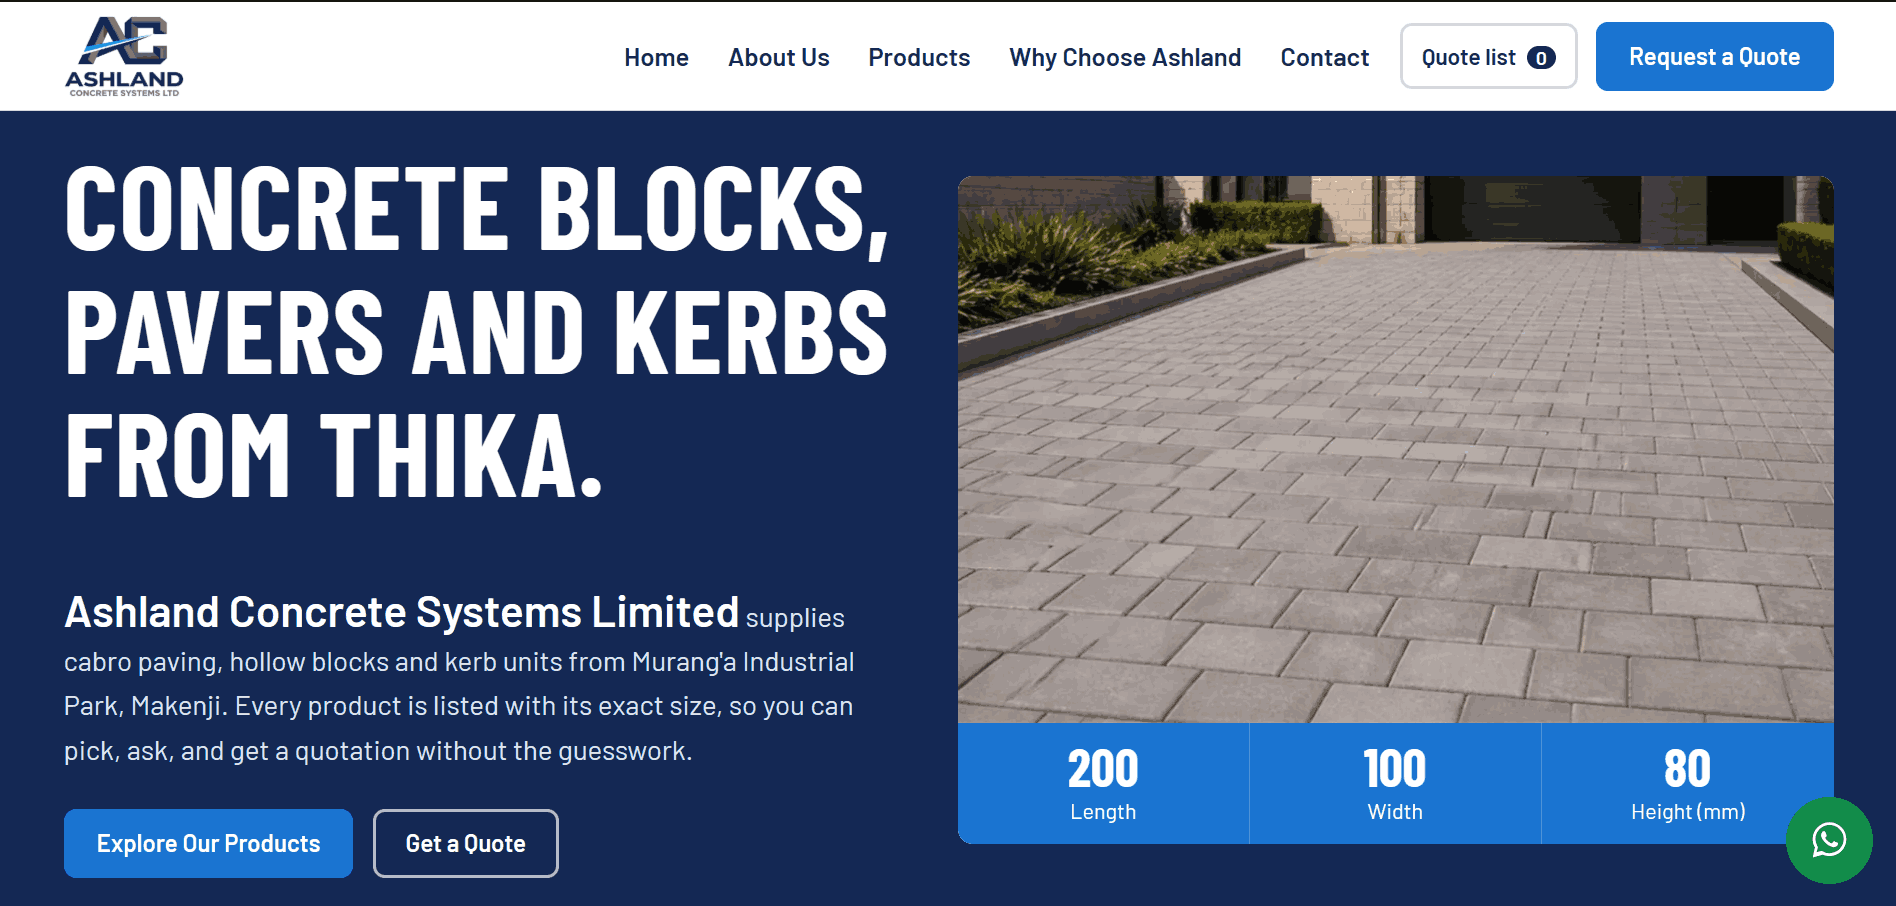
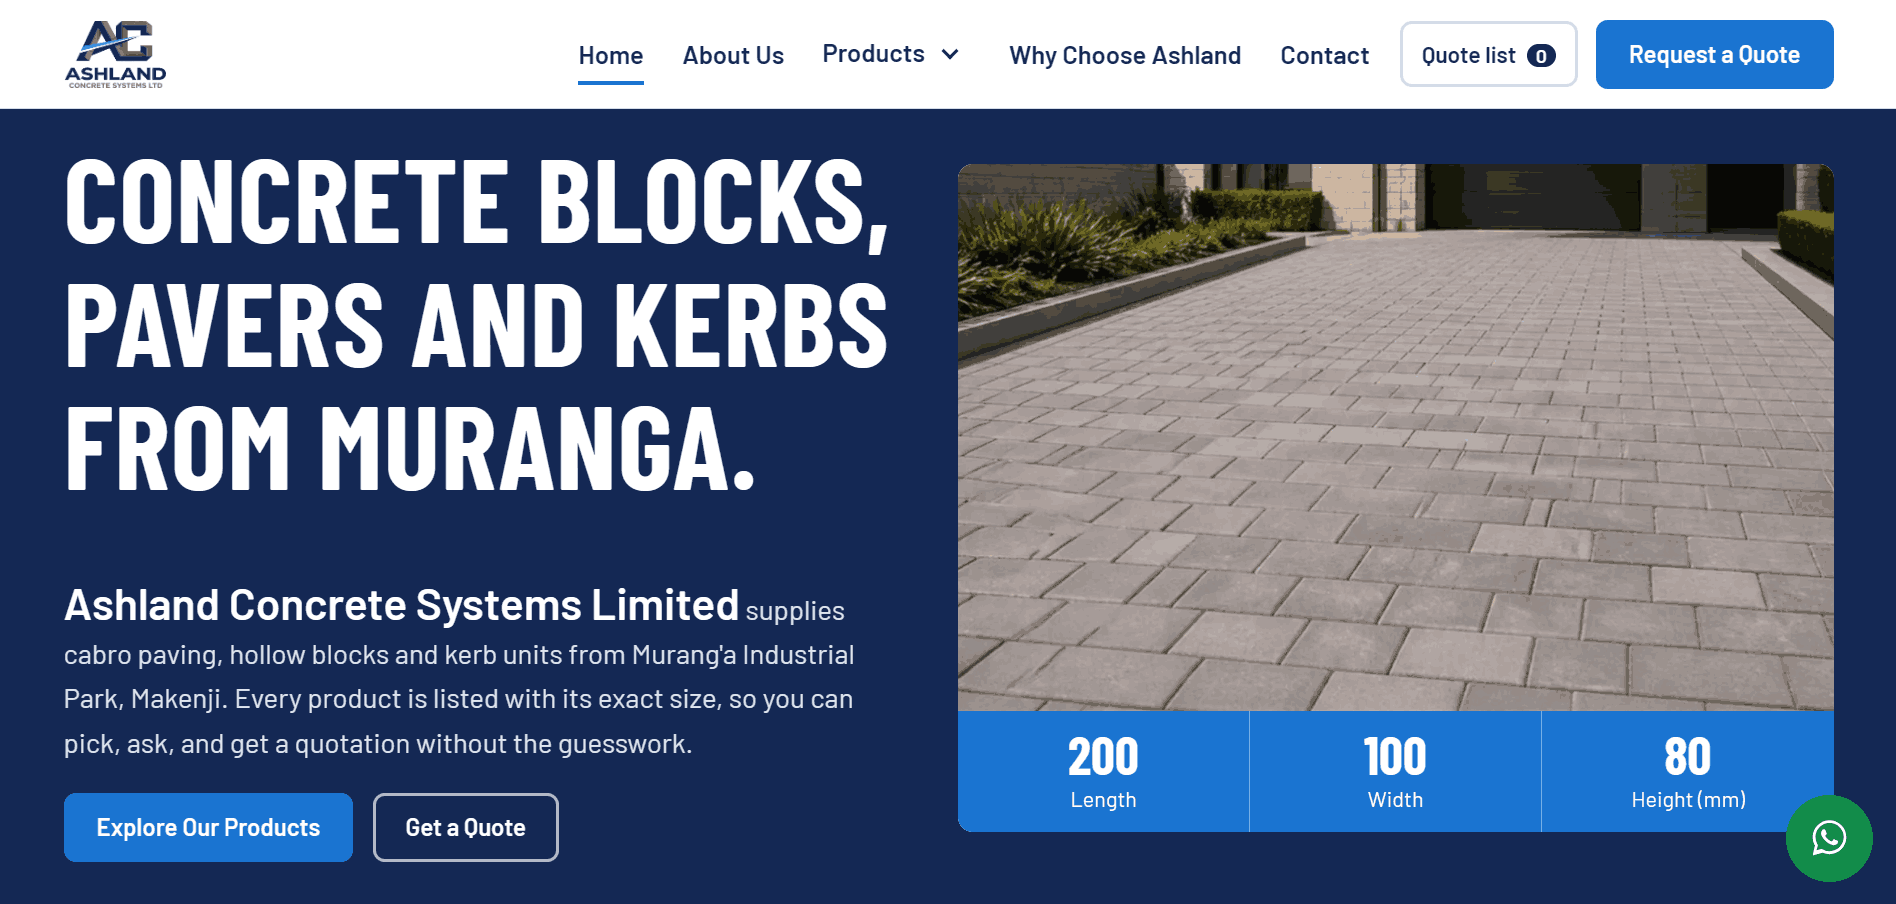
Implement hero slideshow with image transitions and navigation controls; update image assets

diff --git a/js/hero-slider.js b/js/hero-slider.js
@@ -1,0 +1,195 @@
+/* Home-page hero slideshow: crossfade, arrows, dots, swipe, pause. Dimensions come from products.js. */
+(function () {
+  "use strict";
+  var root = document.getElementById("hero-slider");
+  if (!root) return;
+  var slides = Array.prototype.slice.call(root.querySelectorAll(".hs-slide"));
+  if (slides.length < 2) return;
+
+  var stage = root.querySelector(".hs-stage"),
+    tag = root.querySelector(".hs-tag"),
+    strip = root.querySelector(".dim-strip");
+  var dotsBox = root.querySelector(".hs-dots"),
+    pauseBtn = root.querySelector(".hs-pause");
+  var PRODUCTS = window.ASHLAND_PRODUCTS || [];
+  var DELAY = 5500,
+    current = 0,
+    timer = null,
+    userPaused = false,
+    hovering = false,
+    visible = true;
+  var reduce = window.matchMedia("(prefers-reduced-motion: reduce)").matches;
+
+  // Load the other images after the page has loaded, so the first image stays fast
+  function loadRest() {
+    slides.forEach(function (s) {
+      var im = s.querySelector("img[data-src]");
+      if (im) {
+        im.src = im.getAttribute("data-src");
+        im.removeAttribute("data-src");
+      }
+    });
+  }
+  if (document.readyState === "complete") loadRest();
+  else window.addEventListener("load", loadRest);
+
+  var dots = slides.map(function (s, k) {
+    s.setAttribute("role", "group");
+    s.setAttribute("aria-roledescription", "slide");
+    s.setAttribute("aria-label", k + 1 + " of " + slides.length);
+    var b = document.createElement("button");
+    b.type = "button";
+    b.className = "hs-dot";
+    b.setAttribute(
+      "aria-label",
+      "Show image " + (k + 1) + " of " + slides.length,
+    );
+    b.addEventListener("click", function () {
+      show(k);
+      restart();
+    });
+    dotsBox.appendChild(b);
+    return b;
+  });
+
+  function productOf(slide) {
+    return PRODUCTS.filter(function (p) {
+      return p.id === slide.getAttribute("data-product");
+    })[0];
+  }
+
+  function show(n, initial) {
+    current = (n + slides.length) % slides.length;
+    slides.forEach(function (s, k) {
+      s.classList.toggle("is-active", k === current);
+      s.setAttribute("aria-hidden", k === current ? "false" : "true");
+    });
+    dots.forEach(function (d, k) {
+      d.setAttribute("aria-current", k === current ? "true" : "false");
+    });
+    if (initial) return; // first slide's tag and numbers are already in the HTML
+    var p = productOf(slides[current]);
+    if (p) {
+      if (tag) {
+        tag.href = "/products/" + p.id + "/";
+        tag.firstChild.textContent = p.name + " ";
+      }
+      if (strip) {
+        var b = strip.querySelectorAll("b");
+        if (b.length === 3) {
+          b[0].textContent = p.dims.l;
+          b[1].textContent = p.dims.w;
+          b[2].textContent = p.dims.h;
+        }
+        strip.setAttribute("aria-label", p.name + " dimensions");
+      }
+    }
+  }
+
+  function next() {
+    show(current + 1);
+  }
+  function prev() {
+    show(current - 1);
+  }
+  function canPlay() {
+    return !reduce && !userPaused && !hovering && visible && !document.hidden;
+  }
+  function stop() {
+    clearInterval(timer);
+    timer = null;
+    stage.setAttribute("aria-live", "polite");
+  }
+  function start() {
+    stop();
+    if (canPlay()) {
+      stage.setAttribute("aria-live", "off");
+      timer = setInterval(next, DELAY);
+    }
+  }
+  function restart() {
+    start();
+  }
+
+  root.querySelector(".hs-next").addEventListener("click", function () {
+    next();
+    restart();
+  });
+  root.querySelector(".hs-prev").addEventListener("click", function () {
+    prev();
+    restart();
+  });
+
+  if (reduce) {
+    pauseBtn.hidden = true;
+  }
+  pauseBtn.addEventListener("click", function () {
+    userPaused = !userPaused;
+    pauseBtn.classList.toggle("is-paused", userPaused);
+    pauseBtn.setAttribute(
+      "aria-label",
+      userPaused ? "Play slideshow" : "Pause slideshow",
+    );
+    start();
+  });
+
+  root.addEventListener("mouseenter", function () {
+    hovering = true;
+    start();
+  });
+  root.addEventListener("mouseleave", function () {
+    hovering = false;
+    start();
+  });
+  root.addEventListener("focusin", function () {
+    hovering = true;
+    start();
+  });
+  root.addEventListener("focusout", function () {
+    hovering = false;
+    start();
+  });
+  document.addEventListener("visibilitychange", start);
+  if ("IntersectionObserver" in window)
+    new IntersectionObserver(
+      function (e) {
+        visible = e[0].isIntersecting;
+        start();
+      },
+      { threshold: 0.25 },
+    ).observe(root);
+
+  root.addEventListener("keydown", function (e) {
+    if (e.key === "ArrowRight") {
+      next();
+      restart();
+    } else if (e.key === "ArrowLeft") {
+      prev();
+      restart();
+    }
+  });
+  var x0 = null; // swipe on touch screens
+  stage.addEventListener(
+    "touchstart",
+    function (e) {
+      x0 = e.touches[0].clientX;
+    },
+    { passive: true },
+  );
+  stage.addEventListener(
+    "touchend",
+    function (e) {
+      if (x0 === null) return;
+      var dx = e.changedTouches[0].clientX - x0;
+      x0 = null;
+      if (Math.abs(dx) > 40) {
+        dx < 0 ? next() : prev();
+        restart();
+      }
+    },
+    { passive: true },
+  );
+
+  show(0, true);
+  start();
+})();

diff --git a/index.html b/index.html
@@ -90,9 +90,21 @@
           <a class="btn btn-ghost" href="#quote">Get a Quote</a>
         </div>
       </div>
-      <figure class="hero-figure">
-        <img src="assets/images/ashland-cabro-80-driveway.webp" alt="Grey concrete cabro paving laid as a driveway with kerb edging" width="1200" height="677" fetchpriority="high">
-        <figcaption class="dim-strip" aria-label="Example: Ashland Cabro 80 dimensions">
+    <figure class="hero-figure hero-slider" id="hero-slider" aria-roledescription="carousel" aria-label="Where Ashland products are used">
+        <div class="hs-stage" aria-live="off">
+          <div class="hs-slide is-active" data-product="cabro-80"><img src="assets/images/ashland-cabro-80-driveway.jpg" alt="Grey concrete cabro paving laid as a driveway with kerb edging" width="1200" height="677" fetchpriority="high"></div>
+          <div class="hs-slide" data-product="uni-80"><img data-src="assets/images/ashland-uni-80-driveway.jpg" alt="Wave-profile concrete paving forming a driveway beside a raised planter" width="1200" height="472"></div>
+          <div class="hs-slide" data-product="pavers-60"><img data-src="assets/images/ashland-pavers-60-walkway.jpg
+            " alt="Multi-colour concrete pavers forming a garden walkway" width="1004" height="565"></div>
+          <div class="hs-slide" data-product="road-kerb"><img data-src="assets/images/ashland-road-kerb-roadside.jpg" alt="Concrete kerb along the edge of a road beside a planted verge" width="1200" height="688"></div>
+          <div class="hs-slide" data-product="hb-300"><img data-src="assets/images/ashland-hb-300-site.jpg" alt="Hollow concrete blocks arranged between reinforcement bars on a building site" width="826" height="550"></div>
+          <a class="hs-tag" href="/products/cabro-80/">Ashland Cabro 80 <span aria-hidden="true">→</span></a>
+          <button class="hs-btn hs-prev" type="button" aria-label="Previous image"></button>
+          <button class="hs-btn hs-next" type="button" aria-label="Next image"></button>
+          <button class="hs-pause" type="button" aria-label="Pause slideshow"><span class="i-pause"></span><span class="i-play"></span></button>
+          <div class="hs-dots"></div>
+        </div>
+        <figcaption class="dim-strip" aria-label="Ashland Cabro 80 dimensions">
           <span><b>200</b>Length</span><span><b>100</b>Width</span><span><b>80</b>Height&nbsp;(mm)</span>
         </figcaption>
       </figure>
@@ -238,7 +250,7 @@
         <p class="note">The map link searches for the address. It is not a surveyed pin, so please call if you need directions.</p>
       </div>
       <div class="contact-card">
-        <img src="assets/images/ashland-cabro-60-driveway.webp" alt="Concrete cabro paving laid in front of a modern gate" loading="lazy" width="1200" height="450">
+        <img src="assets/images/ashland-cabro-60-driveway.jpg" alt="Concrete cabro paving laid in front of a modern gate" loading="lazy" width="1200" height="450">
         <p>Tell us the product, quantity and your location, and we will come back to you with a quotation.</p>
         <a class="btn btn-primary" href="#quote">Request a Quote</a>
       </div>
@@ -284,5 +296,6 @@
 <script src="js/menu-enhance.js"></script>
 <script src="js/nav-dropdown.js"></script>
 <script src="js/animate.js"></script>
+<script src="js/hero-slider.js"></script>
 </body>
 </html>

diff --git a/css/pages.css b/css/pages.css
@@ -99,3 +99,33 @@ table.spec th{width:35%;color:var(--muted);font-weight:600}
   .dd-foot{display:grid;padding:.4rem 0 1rem 2.6rem}
   .nav .dd-foot a{padding:.5rem 0;border:0;font:600 .95rem var(--font-body);letter-spacing:0;text-transform:none;color:#c9d3e6}
 }
+
+/* ===== Hero slideshow ===== */
+.hero-slider{position:relative}
+.hs-stage{position:relative;aspect-ratio:16/10;background:var(--navy-deep);overflow:hidden}
+.hs-stage::after{content:"";position:absolute;left:0;right:0;bottom:0;height:70px;background:linear-gradient(to top,rgba(13,28,61,.55),transparent);pointer-events:none;z-index:2}
+.hs-slide{position:absolute;inset:0;opacity:0;visibility:hidden;transition:opacity .9s ease,visibility 0s linear .9s}
+.hs-slide.is-active{opacity:1;visibility:visible;transition-delay:0s}
+.hs-slide img{width:100%;height:100%;aspect-ratio:auto;object-fit:cover}
+.hs-slide.is-active img{animation:hs-zoom 8s ease-out both}
+@keyframes hs-zoom{from{transform:scale(1.06)}to{transform:scale(1)}}
+.hs-tag{position:absolute;left:.8rem;top:.8rem;z-index:3;max-width:calc(100% - 4.5rem);padding:.45rem .9rem;border-radius:99px;background:rgba(13,28,61,.82);color:#fff;font:600 .92rem var(--font-body);text-decoration:none;white-space:nowrap;overflow:hidden;text-overflow:ellipsis}
+.hs-tag:hover{background:var(--blue)}
+.hs-btn,.hs-pause{position:absolute;z-index:3;display:grid;place-items:center;border:0;border-radius:50%;background:rgba(13,28,61,.72);cursor:pointer;transition:background .2s}
+.hs-btn:hover,.hs-pause:hover{background:var(--blue)}
+.hs-btn{top:50%;width:44px;height:44px;margin-top:-22px}
+.hs-prev{left:.6rem}.hs-next{right:.6rem}
+.hs-btn::before{content:"";width:.7rem;height:.7rem;border-top:3px solid #fff;border-left:3px solid #fff}
+.hs-prev::before{transform:translateX(3px) rotate(-45deg)}
+.hs-next::before{transform:translateX(-3px) rotate(135deg)}
+.hs-pause{right:.8rem;top:.8rem;width:40px;height:40px}
+.hs-pause .i-pause{display:flex;gap:3px}
+.hs-pause .i-pause::before,.hs-pause .i-pause::after{content:"";width:4px;height:14px;background:#fff}
+.hs-pause .i-play{display:none;border-left:12px solid #fff;border-top:8px solid transparent;border-bottom:8px solid transparent;margin-left:3px}
+.hs-pause.is-paused .i-pause{display:none}
+.hs-pause.is-paused .i-play{display:block}
+.hs-dots{position:absolute;left:0;right:0;bottom:.5rem;z-index:3;display:flex;justify-content:center}
+.hs-dot{width:26px;height:26px;padding:0;border:0;background:none;cursor:pointer;display:grid;place-items:center}
+.hs-dot::before{content:"";width:10px;height:10px;border-radius:99px;background:rgba(255,255,255,.55);transition:width .25s,background .25s}
+.hs-dot[aria-current="true"]::before{width:24px;background:#fff}
+@media (max-width:560px){.hs-btn{width:38px;height:38px;margin-top:-19px}.hs-tag{font-size:.85rem}}
